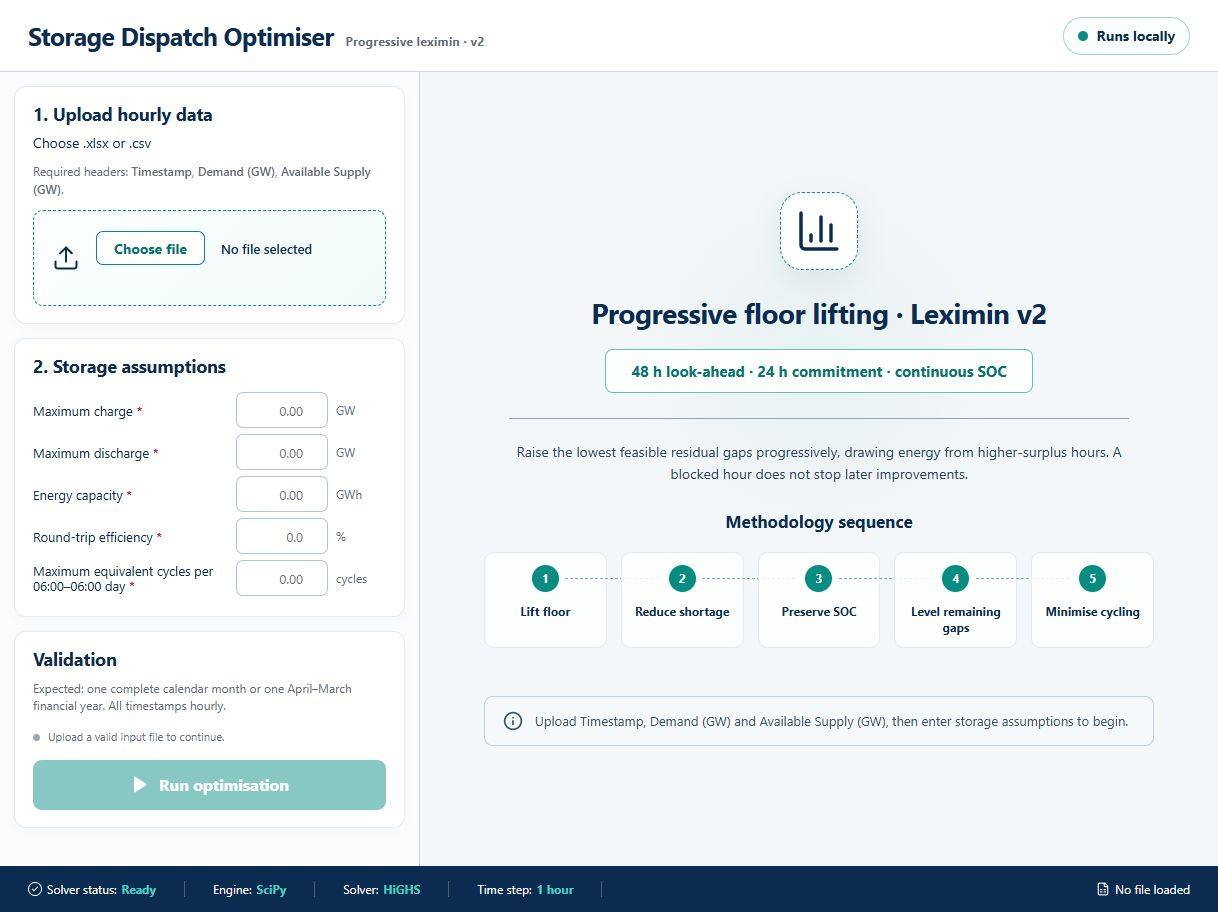
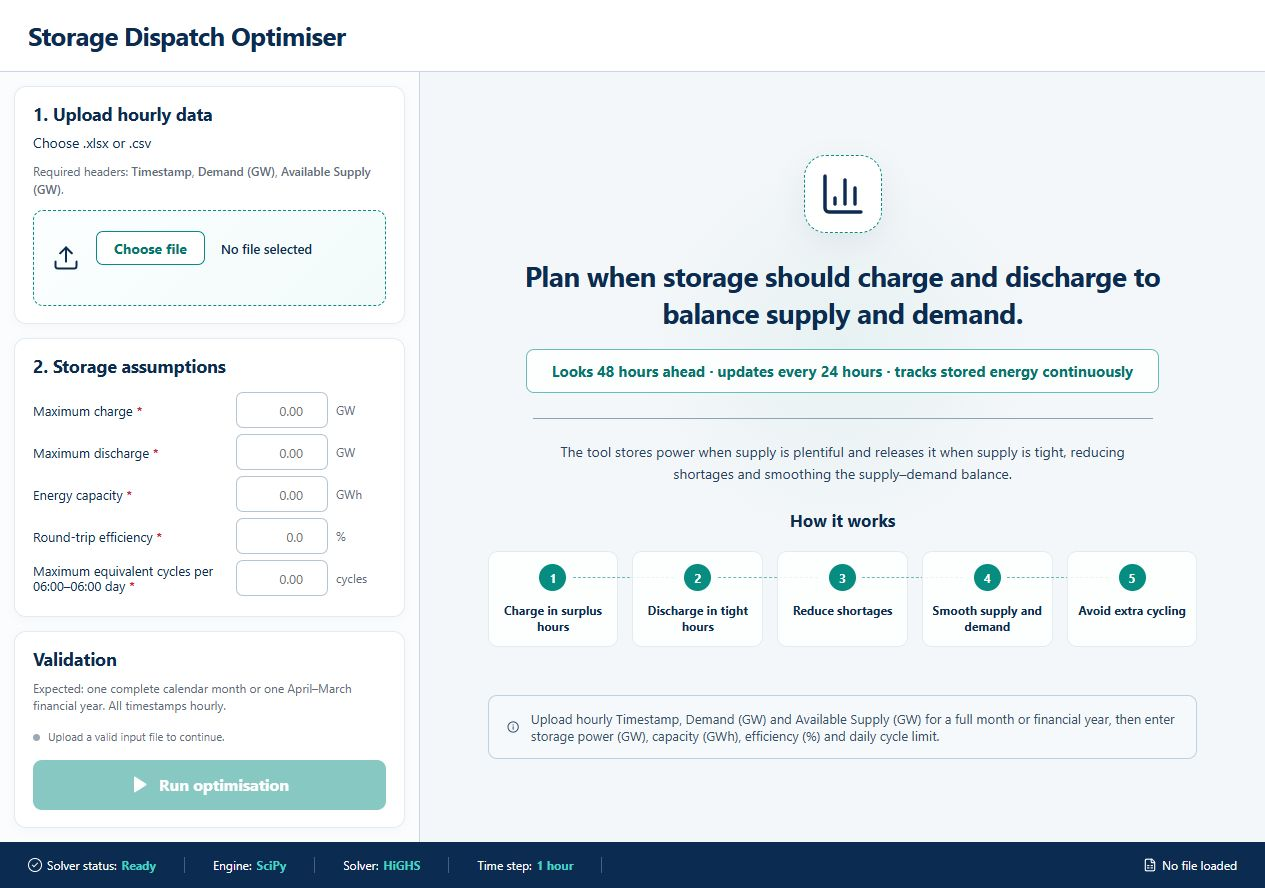
Clarify the public-facing optimiser language

diff --git a/frontend/src/App.tsx b/frontend/src/App.tsx
@@ -30,11 +30,11 @@ const EMPTY_STORAGE: StorageInputs = {
 };
 
 const METHOD_STEPS = [
-  "Lift floor",
-  "Reduce shortage",
-  "Preserve SOC",
-  "Level remaining gaps",
-  "Minimise cycling",
+  "Charge in surplus hours",
+  "Discharge in tight hours",
+  "Reduce shortages",
+  "Smooth supply and demand",
+  "Avoid extra cycling",
 ];
 
 const STORAGE_FIELDS: Array<[
@@ -117,13 +117,13 @@ function EmptyWorkspace() {
   return (
     <section className="empty-workspace">
       <div className="empty-symbol"><BarChart3 size={48} strokeWidth={1.7} /></div>
-      <h2>Progressive floor lifting · Leximin v2</h2>
-      <div className="method-lock">48 h look-ahead · 24 h commitment · continuous SOC</div>
+      <h2>Plan when storage should charge and discharge to balance supply and demand.</h2>
+      <div className="method-lock">Looks 48 hours ahead · updates every 24 hours · tracks stored energy continuously</div>
       <p>
-        Raise the lowest feasible residual gaps progressively, drawing energy from
-        higher-surplus hours. A blocked hour does not stop later improvements.
+        The tool stores power when supply is plentiful and releases it when supply is tight,
+        reducing shortages and smoothing the supply–demand balance.
       </p>
-      <h3>Methodology sequence</h3>
+      <h3>How it works</h3>
       <ol className="method-sequence">
         {METHOD_STEPS.map((step, index) => (
           <li key={step}>
@@ -134,7 +134,7 @@ function EmptyWorkspace() {
       </ol>
       <div className="empty-note">
         <Info size={20} />
-        <span>Upload Timestamp, Demand (GW) and Available Supply (GW), then enter storage assumptions to begin.</span>
+        <span>Upload hourly Timestamp, Demand (GW) and Available Supply (GW) for a full month or financial year, then enter storage power (GW), capacity (GWh), efficiency (%) and daily cycle limit.</span>
       </div>
     </section>
   );
@@ -298,7 +298,7 @@ function ResultsWorkspace({ result }: { result: RunResult }) {
         </section>
       </div>
 
-      <div className="method-footer">Leximin v2 · 48 h look-ahead · 24 h commitment · continuous SOC</div>
+      <div className="method-footer">Looks 48 hours ahead · updates every 24 hours · tracks stored energy continuously</div>
     </section>
   );
 }
@@ -398,9 +398,7 @@ export default function App() {
       <header className="topbar">
         <div className="topbar-brand">
           <h1>Storage Dispatch Optimiser</h1>
-          <span>Progressive leximin · v2</span>
         </div>
-        <div className="local-status"><span /> Runs locally</div>
       </header>
 
       <div className="main-layout">

diff --git a/frontend/src/styles.css b/frontend/src/styles.css
@@ -88,34 +88,6 @@ select:focus-visible,
   letter-spacing: -0.025em;
 }
 
-.topbar-brand > span {
-  color: var(--slate);
-  font-size: 12px;
-  font-weight: 650;
-  letter-spacing: 0.02em;
-}
-
-.local-status {
-  display: inline-flex;
-  align-items: center;
-  gap: 9px;
-  min-height: 38px;
-  padding: 0 14px;
-  border: 1px solid #9ed7d1;
-  border-radius: 999px;
-  color: var(--navy);
-  background: #fbfefe;
-  font-size: 14px;
-  font-weight: 650;
-}
-
-.local-status span {
-  width: 10px;
-  height: 10px;
-  border-radius: 50%;
-  background: var(--teal);
-}
-
 .main-layout {
   display: grid;
   grid-template-columns: 420px minmax(0, 1fr);
@@ -981,19 +953,8 @@ td b {
   }
 
   .topbar h1 {
-    max-width: 72%;
     font-size: 20px;
     line-height: 1.05;
-  }
-
-  .topbar-brand > span {
-    display: none;
-  }
-
-  .local-status {
-    min-height: 32px;
-    padding: 0 10px;
-    font-size: 11px;
   }
 
   .main-layout {

diff --git a/frontend/index.html b/frontend/index.html
@@ -4,7 +4,7 @@
     <meta charset="UTF-8" />
     <meta name="viewport" content="width=device-width, initial-scale=1.0" />
     <meta name="theme-color" content="#ffffff" />
-    <title>Storage Dispatch Optimiser v2</title>
+    <title>Storage Dispatch Optimiser</title>
   </head>
   <body>
     <div id="root"></div>
